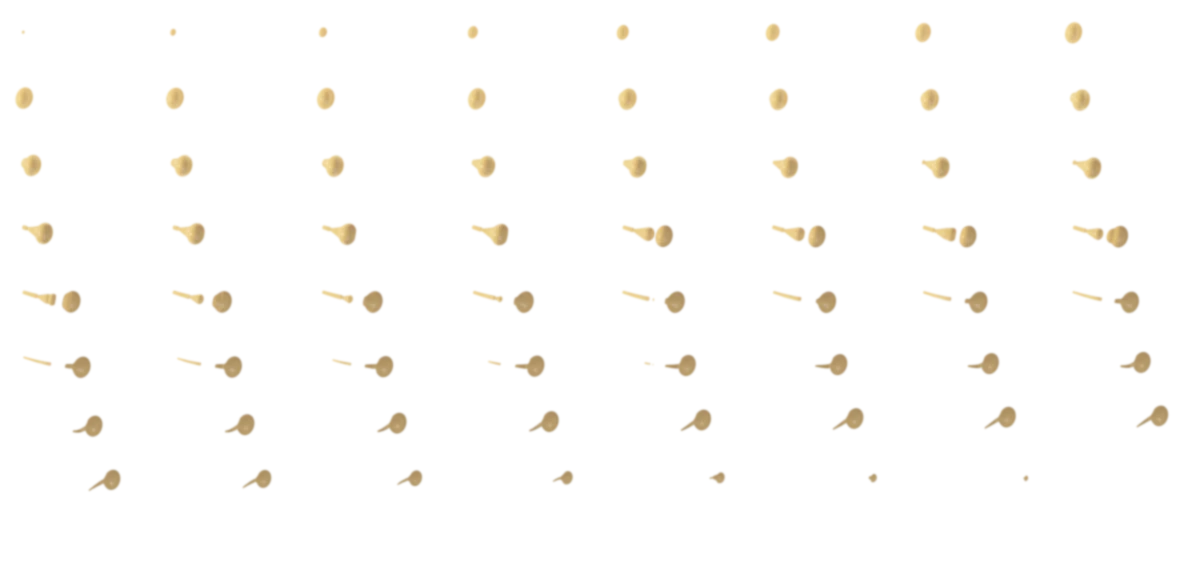
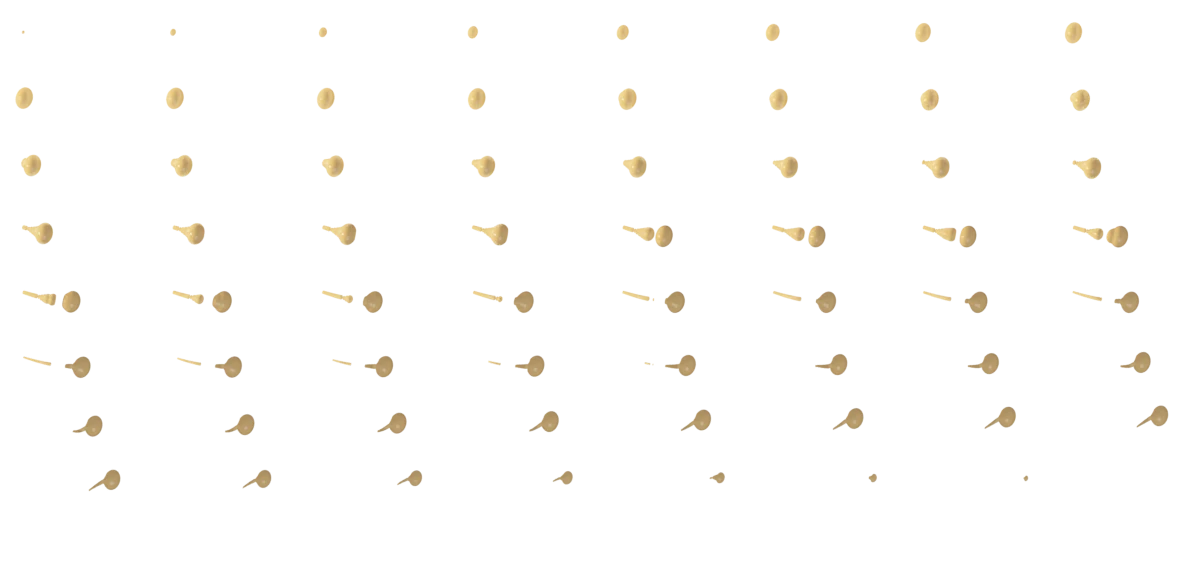
Bougie : plus petite et nette, à l'écart du livre ; flamme vivante qui répond à la souris
- bake-bougie.py : sans flou de cire, flamme moins floue ; la bougie est posée plus à gauche et
  réduite à 0,82 autour de son pied (entière à l'écran, loin du livre ouvert, plus de pixels par px).
- Bougie.tsx : la flamme se balance, s'étire et saute un peu toute seule ; un passage rapide de la
  main la couche (ressort amorti poussé par la vitesse du pointeur), elle vacille puis se redresse.
- src/lib/pointeur.ts : un seul écouteur pointermove partagé (position et vitesse lissée).

Claude-Session: https://claude.ai/code/session_01HsT19mmaSW8gLnbYG5FUm2

diff --git a/src/components/Bougie/Bougie.tsx b/src/components/Bougie/Bougie.tsx
@@ -1,8 +1,9 @@
 import React from 'react';
-import { LazyMotion, domMax, m, useTransform, useReducedMotion } from '../../lib/motion';
+import { LazyMotion, domMax, m, useMotionValue, useTransform, useReducedMotion } from '../../lib/motion';
 import { useFeu } from '../../lib/feu';
 import { useReglages } from '../../lib/reglages';
 import { cssUrl } from '../../lib/assets';
+import { ecouterPointeur } from '../../lib/pointeur';
 import geo from './geometrie.json';
 import './Bougie.css';
 
@@ -24,12 +25,97 @@ export interface BougieProps {
 // les gouttes sont des planches d'images qu'une animation Web (transform, par paliers) fait défiler. Aucun
 // filtre à l'exécution.
 //
+// La flamme vit en plus par elle-même (balancement lent, étirements, petits sauts au hasard) et répond à la
+// main : un passage rapide près d'elle la couche dans le sens du mouvement, elle vacille puis se redresse
+// (un ressort amorti, poussé par la vitesse du pointeur projetée sur la normale de la flamme).
+//
 // Mouvement réduit (système ou réglage) ou réglage feu: false : tout est immobile (flamme fixe, aucune goutte).
-// Rien ne capte le pointeur. Sur téléphone en portrait, le CSS ne garde que la lueur.
+// Rien ne capte le pointeur : on écoute seulement ses mouvements (src/lib/pointeur.ts). Sur téléphone en
+// portrait, le CSS ne garde que la lueur.
 
 const borne = (v: number, a: number, b: number) => Math.min(b, Math.max(a, v));
 const r3 = (v: number) => Math.round(v * 1e3) / 1e3;
 const r2 = (v: number) => Math.round(v * 1e2) / 1e2;
+
+// La flamme part de la mèche (pivot) vers le bas à gauche de l'écran : son axe et la direction dans laquelle
+// une rotation positive (sens horaire à l'écran) déplace sa pointe.
+const AXE = [-0.87, 0.49];
+const NORMALE = [-AXE[1], AXE[0]];
+const RAIDEUR = 60; // ressort de l'inclinaison (≈ 1,2 oscillation par seconde)
+const AMORTI = 6;
+const POUSSEE = 2.6; // (°/s²) par px/s de vent, au contact : un passage à 1000 px/s la couche d'environ 20°
+const PENCHE_MAX = 35;
+
+/** Balancement, étirement et opacité propres de la flamme, et sa réponse au vent de la main. */
+function useFlammeVivante(el: React.RefObject<HTMLElement | null>, fixe: boolean) {
+  const penche = useMotionValue(0);
+  const etire = useMotionValue(1);
+  const eclat = useMotionValue(1);
+  React.useEffect(() => {
+    if (fixe) {
+      penche.set(0);
+      etire.set(1);
+      eclat.set(1);
+      return;
+    }
+    let th = 0; // inclinaison due au vent (°)
+    let om = 0; // sa vitesse (°/s)
+    let trouble = 0; // 0..1 : la flamme dérangée vacille vite et baisse
+    let saut = 0; // petit saut de flamme au hasard
+    let prochainSaut = performance.now() + 1500 + Math.random() * 3000;
+    let boite: DOMRect | null = null;
+    let lue = 0;
+    let vu = 0;
+    let avant = performance.now();
+    let raf = 0;
+    const desab = ecouterPointeur((p) => {
+      const node = el.current;
+      if (!node) return;
+      if (!boite || p.t - lue > 500) {
+        boite = node.getBoundingClientRect();
+        lue = p.t;
+      }
+      if (!boite.width) return;
+      // centre de la flamme (milieu entre la mèche et la pointe)
+      const cx = boite.left + 0.5 * boite.width;
+      const cy = boite.top + 0.5 * boite.height;
+      const R = 3.5 * boite.width;
+      const prox = borne(1 - Math.hypot(p.x - cx, p.y - cy) / R, 0, 1);
+      if (!prox) return;
+      // le vent pousse la pointe dans le sens du mouvement, plus fort tout près ; la flamme se trouble
+      const dt = borne((p.t - vu) / 1000, 0.004, 1 / 30);
+      vu = p.t;
+      om += POUSSEE * prox * prox * (p.vx * NORMALE[0] + p.vy * NORMALE[1]) * dt;
+      trouble = Math.min(1, trouble + 3 * prox * ((p.vx * p.vx + p.vy * p.vy) / 1e6) * dt);
+    });
+    const image = () => {
+      const now = performance.now();
+      const dt = Math.min(0.05, (now - avant) / 1000);
+      avant = now;
+      om += (-RAIDEUR * th - AMORTI * om) * dt;
+      th = borne(th + om * dt, -PENCHE_MAX, PENCHE_MAX);
+      trouble *= Math.exp(-2.5 * dt);
+      saut *= Math.exp(-14 * dt);
+      if (now > prochainSaut) {
+        saut = 0.07 + Math.random() * 0.07;
+        prochainSaut = now + 1800 + Math.random() * 4500;
+      }
+      const t = now / 1000;
+      const balance = 2.6 * Math.sin(1.3 * t) + 1.5 * Math.sin(2.9 * t + 1) + 0.7 * Math.sin(7.1 * t + 2);
+      const vacille = trouble * (5 * Math.sin(23 * t) + 3 * Math.sin(37 * t + 1));
+      penche.set(r2(balance + th + vacille));
+      etire.set(r3(1 + 0.045 * Math.sin(3.7 * t) + 0.025 * Math.sin(9.3 * t + 0.5) - saut - 0.16 * trouble + 0.05 * trouble * Math.sin(29 * t)));
+      eclat.set(r3(1 - 0.5 * saut - 0.28 * trouble * (0.6 + 0.4 * Math.sin(31 * t))));
+      raf = requestAnimationFrame(image);
+    };
+    raf = requestAnimationFrame(image);
+    return () => {
+      desab();
+      cancelAnimationFrame(raf);
+    };
+  }, [el, fixe, penche, etire, eclat]);
+  return { penche, etire, eclat };
+}
 
 type Boite = { x: number; y: number; w: number; h: number };
 const place = (b: Boite): React.CSSProperties => ({ left: b.x, top: b.y, width: b.w, height: b.h });
@@ -85,6 +171,8 @@ export function Bougie({ className }: BougieProps) {
   const fixe = !!mouvementReduit || reglages.feu === false;
   const fixeRef = React.useRef(false);
   fixeRef.current = fixe;
+  const flamme = React.useRef<HTMLDivElement>(null);
+  const vive = useFlammeVivante(flamme, fixe);
 
   const intensite = useTransform(feu.intensite, (i) => (fixeRef.current ? 1 : i));
   const dx = useTransform(feu.dx, (v) => (fixeRef.current ? 0 : v));
@@ -93,11 +181,13 @@ export function Bougie({ className }: BougieProps) {
   // Flamme : l'échelle reste dans 0,96 à 1,04, l'opacité dans 0,7 à 1, la rotation dans ± 2° autour de la mèche.
   const echelleFlamme = useTransform(intensite, (i) => r3(borne(1 + 0.08 * (i - 1), 0.96, 1.04)));
   const opaciteFlamme = useTransform(intensite, (i) => r3(borne(0.88 + 0.24 * (i - 1), 0.7, 1)));
-  const rotationFlamme = useTransform(dx, (v) => r2(borne(0.09 * v, -2, 2)));
+  const rotationFlamme = useTransform([dx, vive.penche], ([v, p]: number[]) => r2(borne(0.09 * v, -2, 2) + p));
+  const etirementFlamme = useTransform([echelleFlamme, vive.etire], ([a, b]: number[]) => r3(a * b));
+  const eclatFlamme = useTransform([opaciteFlamme, vive.eclat], ([a, b]: number[]) => r3(a * b));
   // La cire s'éclaire quand la flamme monte (fondu entre la cire à flamme basse et à flamme haute).
   const opaciteVive = useTransform(intensite, (i) => r3(borne(0.45 + 0.55 * (i - 1), 0.12, 0.9)));
   // Lueur sur la table : elle suit l'intensité et glisse à peine avec la source.
-  const opaciteHalo = useTransform(intensite, (i) => r3(borne(0.8 + 0.4 * (i - 1), 0.5, 1.15)));
+  const opaciteHalo = useTransform([intensite, vive.eclat], ([i, e]: number[]) => r3(borne(0.8 + 0.4 * (i - 1), 0.5, 1.15) * (0.55 + 0.45 * e)));
   const echelleHalo = useTransform(intensite, (i) => r3(borne(1 + 0.05 * (i - 1), 0.96, 1.04)));
   const glisseX = useTransform(dx, (v) => r2(borne(0.4 * v, -9, 9)));
   // Ombre de la cheminée : plus dense quand le feu flambe, elle bouge à l'opposé de la source.
@@ -130,14 +220,15 @@ export function Bougie({ className }: BougieProps) {
         />
         {!fixe && geo.gouttes.map((g, k) => <Goutte key={g.nom} g={g} rang={k} fixe={fixe} />)}
         <m.div
+          ref={flamme}
           className="gc-bougie__flamme gc-bougie__pose"
           data-gc-bougie="flamme"
           style={{
             ...place(geo.flamme),
             backgroundImage: cssUrl('bougie/flamme'),
             transformOrigin: `${geo.flamme.pivot[0]}% ${geo.flamme.pivot[1]}%`,
-            opacity: opaciteFlamme,
-            scale: echelleFlamme,
+            opacity: eclatFlamme,
+            scale: etirementFlamme,
             rotate: rotationFlamme,
           }}
         />

diff --git a/src/lib/pointeur.ts b/src/lib/pointeur.ts
@@ -1,0 +1,46 @@
+// Le pointeur (souris, stylet, doigt) pour ce qui veut y réagir sans écouter soi-même : la flamme de la
+// bougie qui se couche au passage de la main, les dessins qui s'animent sous le curseur. Un seul écouteur
+// pointermove sur la fenêtre (passif), posé au premier abonné et retiré au dernier. Position et vitesse en
+// px d'écran (vitesse lissée, px/s).
+
+export interface EtatPointeur {
+  x: number;
+  y: number;
+  vx: number;
+  vy: number;
+  /** Instant de l'échantillon (ms, même horloge que performance.now). */
+  t: number;
+  type: string;
+}
+
+type Ecouteur = (e: EtatPointeur) => void;
+
+const ecouteurs = new Set<Ecouteur>();
+let dernier: EtatPointeur | null = null;
+
+function surMouvement(e: PointerEvent) {
+  const t = e.timeStamp;
+  let vx = 0;
+  let vy = 0;
+  if (dernier && t > dernier.t && t - dernier.t < 120) {
+    const dt = Math.max(8, t - dernier.t) / 1000;
+    vx = 0.4 * dernier.vx + (0.6 * (e.clientX - dernier.x)) / dt;
+    vy = 0.4 * dernier.vy + (0.6 * (e.clientY - dernier.y)) / dt;
+  }
+  dernier = { x: e.clientX, y: e.clientY, vx, vy, t, type: e.pointerType };
+  ecouteurs.forEach((f) => f(dernier!));
+}
+
+/** Appelle `f` à chaque mouvement du pointeur ; renvoie la fonction de désabonnement. */
+export function ecouterPointeur(f: Ecouteur): () => void {
+  if (typeof window === 'undefined') return () => {};
+  if (!ecouteurs.size) window.addEventListener('pointermove', surMouvement, { passive: true });
+  ecouteurs.add(f);
+  return () => {
+    ecouteurs.delete(f);
+    if (!ecouteurs.size) window.removeEventListener('pointermove', surMouvement);
+  };
+}
+
+/** Le dernier état connu du pointeur (null avant le premier mouvement). */
+export const lirePointeur = (): EtatPointeur | null => dernier;

diff --git a/scripts/bake-bougie.py b/scripts/bake-bougie.py
@@ -40,8 +40,10 @@ SHA256 = 'a88c958b0677589e33d038777566782ecb6b245179a6629cfe3d3563a1f0e1d2'
 OUT = os.path.join(ROOT, 'design-system', 'baked', 'bougie')
 GEOMETRIE = os.path.join(ROOT, 'src', 'components', 'Bougie', 'geometrie.json')
 
-CUISSON = 1.25          # px cuits par px de scène (le rendu Blender est fait à cette échelle)
-FLOU_CIRE = 0.7         # px de scène : la bougie est un peu plus haute que le livre, à peine hors du net
+CUISSON = 1.25          # px cuits par px de scène : celui du rendu Blender (scene.py, CUISSON) ; changer les deux avec un nouveau rendu
+FLOU_CIRE = 0           # px de scène : la cire est nette (le flou de profondeur de champ est retiré)
+DECALAGE = (-52, -24)   # px de scène : la bougie est posée plus à gauche et un peu plus haut (pied (196, 846) → (144, 822))
+TAILLE = 0.82           # et un peu plus petite (autour de son pied) : entière à l'écran, loin du livre ouvert, plus nette
 OMBRE_R0, OMBRE_R1 = 90.0, 230.0   # l'ombre s'efface entre ces distances au pied (px de scène)
 ASSOMBRI = 0.9          # la pièce est sombre : la cire reste devinée plutôt que montrée
 COLONNES_GOUTTE = 8
@@ -54,7 +56,7 @@ ECHELLE_PHOTO = 0.142   # px de scène par px de la photo, pour une flamme debou
 MECHE = (3252, 1785)
 FLAMME_BAS, FLAMME_HAUT = 30, 140
 FLAMME_FONDU = (1735, 1792)
-FLOU_FLAMME = 4         # px de scène, avant la mise en perspective (qui la réduit encore)
+FLOU_FLAMME = 1.5       # px de scène, avant la mise en perspective (qui la réduit encore)
 FLAMME_LARGEUR = 0.5    # échelle en travers (la largeur d'une flamme ne fuit pas)
 FLAMME_RACCOURCI_MIN = 0.5   # vue presque d'en haut, la flamme se raccourcit, mais on la garde lisible
 HALO_SCENE = (800, 900)
@@ -268,6 +270,15 @@ def main():
     cx, cy = rep['flamme']
     geo['halo'] = {'x': round(cx - HALO_SCENE[0] / 2, 2), 'y': round(cy - HALO_SCENE[1] / 2, 2),
                    'w': HALO_SCENE[0], 'h': HALO_SCENE[1]}
+
+    # la bougie est posée ailleurs sur la table, un peu plus petite : ses calques, sa lueur et son ombre
+    # suivent d'un bloc, réduits autour du pied (les pixels ne changent pas, seule la géométrie bouge)
+    px, py = rep['pied']
+    for calque in [geo['cire'], geo['ombre'], geo['flamme'], geo['halo'], *geo['gouttes']]:
+        calque['x'] = round(px + (calque['x'] - px) * TAILLE + DECALAGE[0], 2)
+        calque['y'] = round(py + (calque['y'] - py) * TAILLE + DECALAGE[1], 2)
+        calque['w'] = round(calque['w'] * TAILLE, 2)
+        calque['h'] = round(calque['h'] * TAILLE, 2)
 
     for vieux in ('bougie.webp',):
         p = os.path.join(OUT, vieux)
